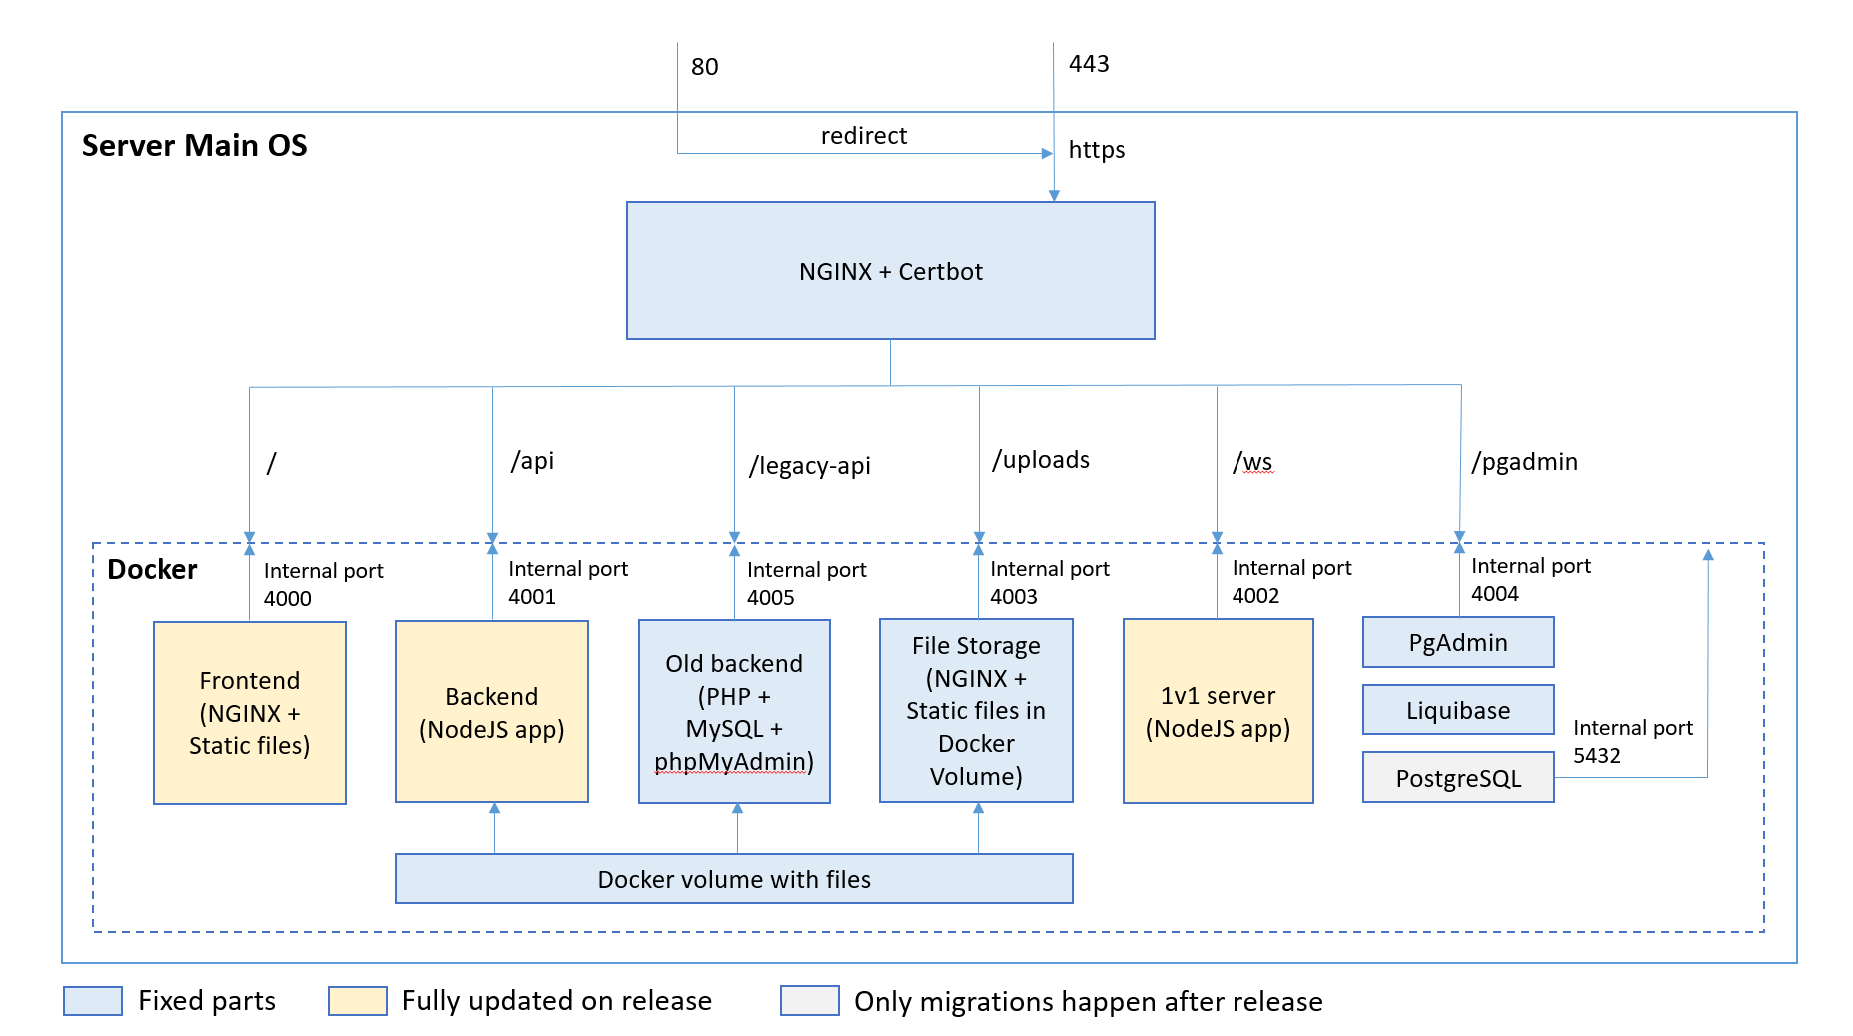
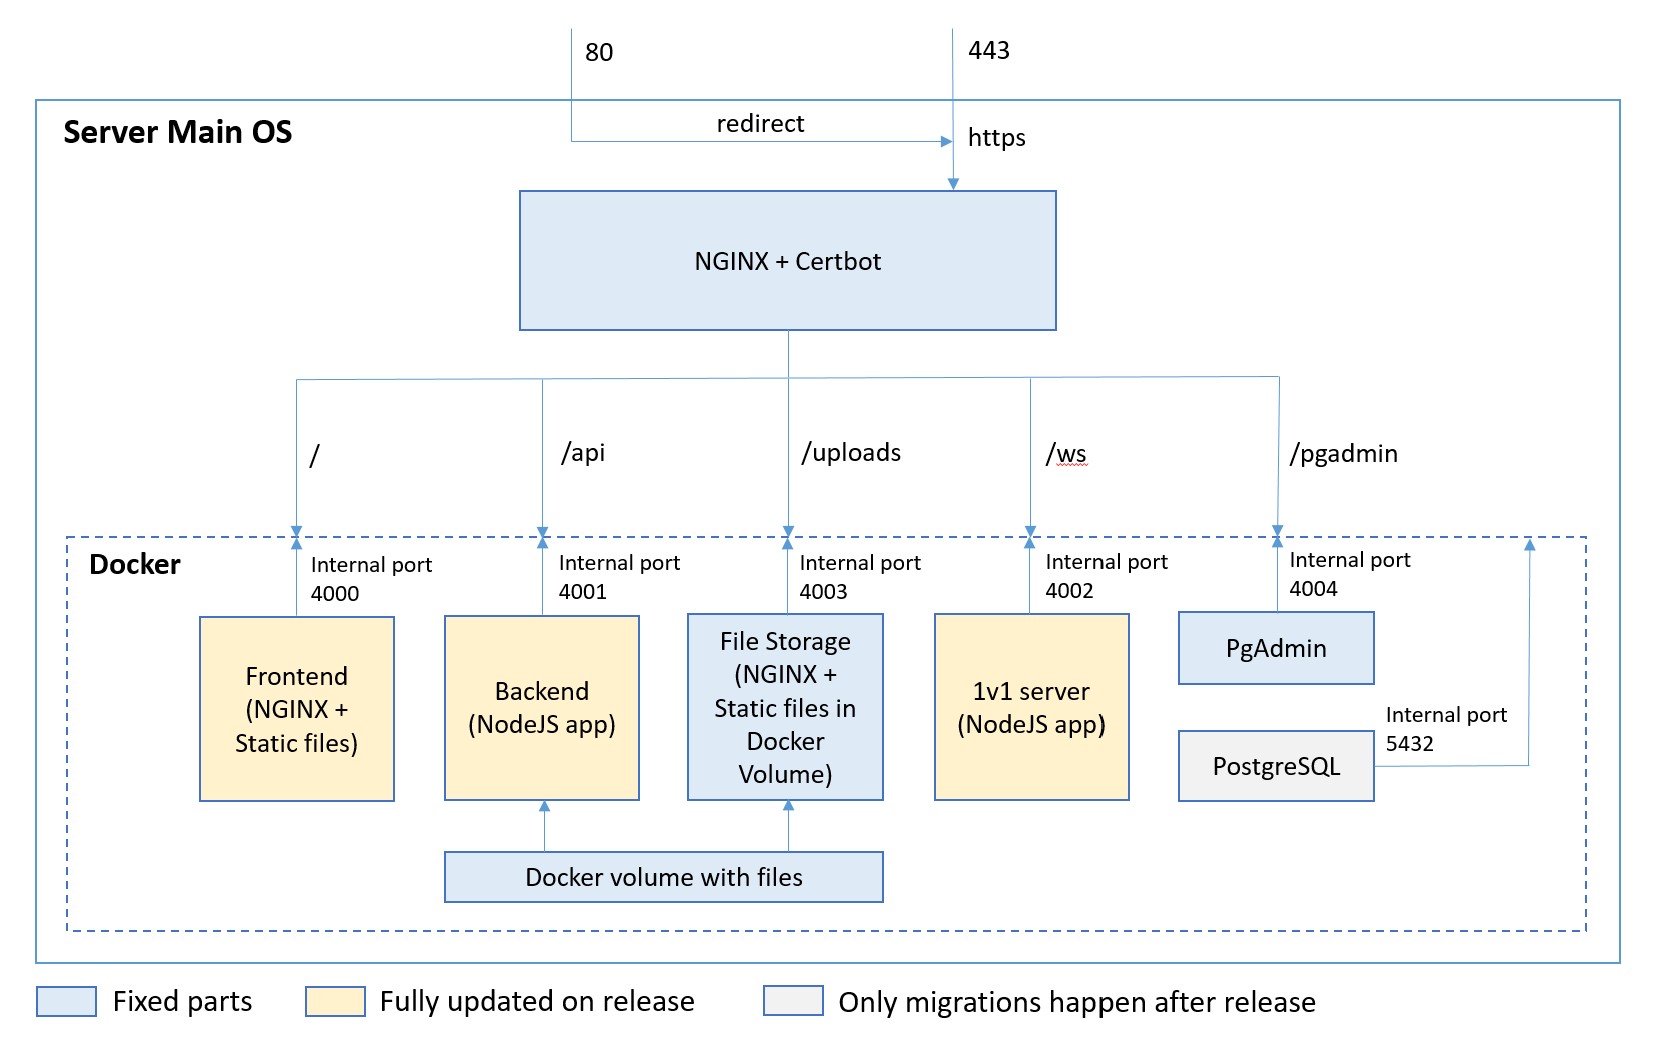
docs(global): removed liquibase scripts

diff --git a/README.md b/README.md
@@ -4,7 +4,7 @@ This is a repository for storing everything related to dfcomps.ru site, which is
 
 # Quick start
 
-The repository consists of several applications which are managed by [Nx Workspaces](https://nx.dev/). Every app is written in [Typescript](https://www.typescriptlang.org/), recommended version of [NodeJS](https://nodejs.org/) is 18.x. To develop backend locally, you need to install [Docker](https://www.docker.com/) for working with database and migrations. Before running any projects locally, you need to install npm packages: 
+The repository consists of several applications which are managed by [Nx Workspaces](https://nx.dev/). Every app is written in [Typescript](https://www.typescriptlang.org/), recommended version of [NodeJS](https://nodejs.org/) is 18.x. To develop backend locally, you need to install [Docker](https://www.docker.com/) for working with database. Before running any projects locally, you need to install npm packages: 
 
 ```bash
 npm i
@@ -28,7 +28,7 @@ Connection to different backends is managed in [url-params.config](https://githu
 
 ## Database
 
-There is a [PostgreSQL](https://www.postgresql.org/) database using [Liquibase](https://www.liquibase.org/) for migrations and [PgAdmin](https://www.pgadmin.org/) for database management. To setup database make sure Docker is installed and running, then execute this script once:
+There is a [PostgreSQL](https://www.postgresql.org/) database using [TypeORM](https://typeorm.io) for migrations and [PgAdmin](https://www.pgadmin.org/) for database management. To setup database make sure Docker is installed and running, then execute this script once:
 
 ```bash
 npm run database:setup
@@ -48,15 +48,6 @@ Username: user
 Password: admin
 ```
 - After clicking save you should be able to access dfcomps test database
-
-Liquibase migrations use separate docker container to generate local database diff by running
-
-```bash
-npm run database:generate-migrations
-```
-
-After that, a file `build/database/dfcomps.changelog.json` is generated with migrations, which will be then applied to production database. Don't forget to run migrations and commit changelog file if you made any changes to database structure.
-There is also an image of database `build/database/dev-database.tar` which stores database with test data. This file is also updated on running `npm run database:generate-migrations` script and also needs to be committed.
 
 ## Backend
 
